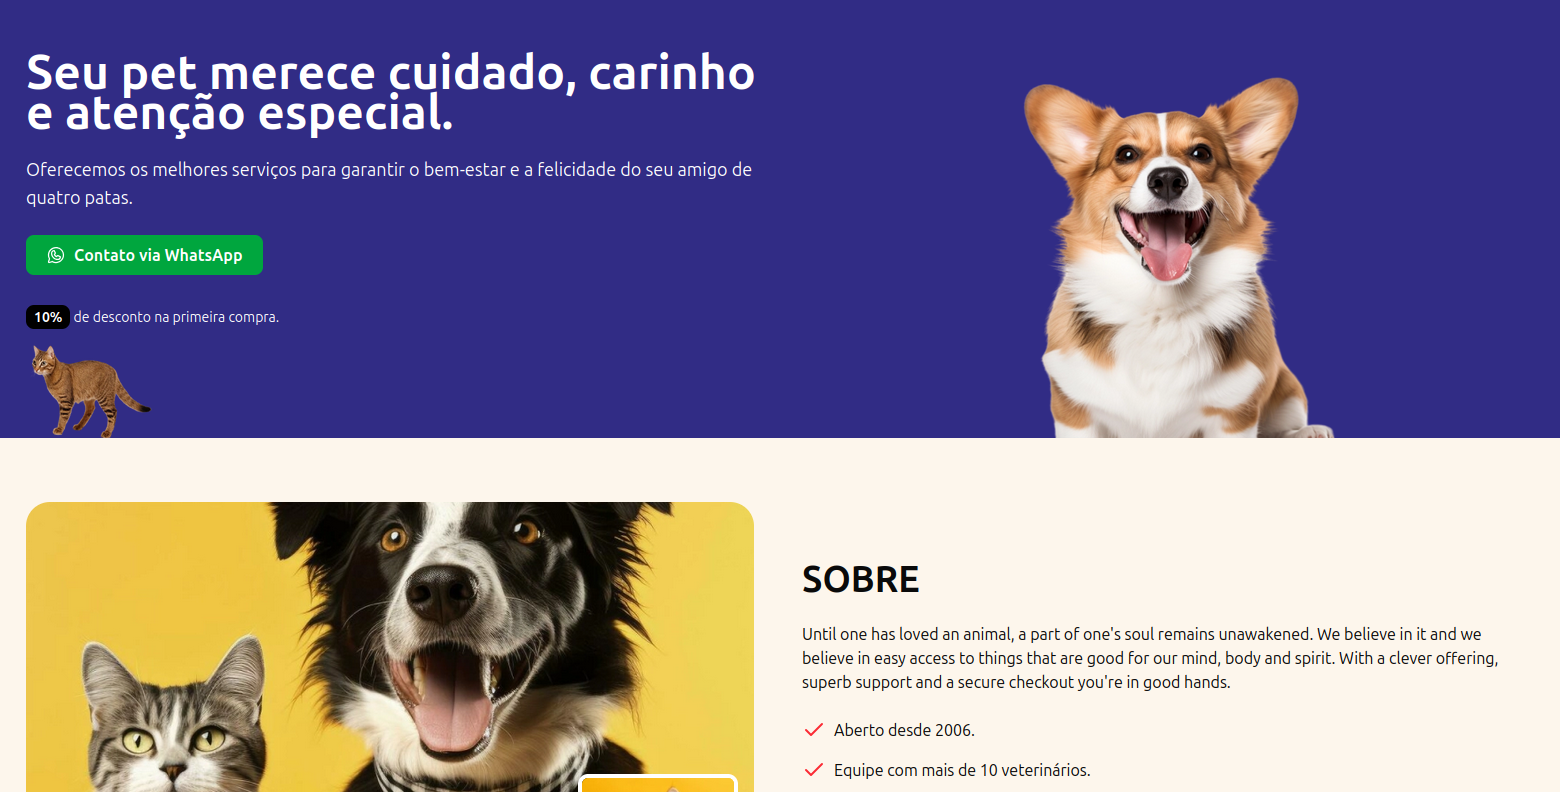
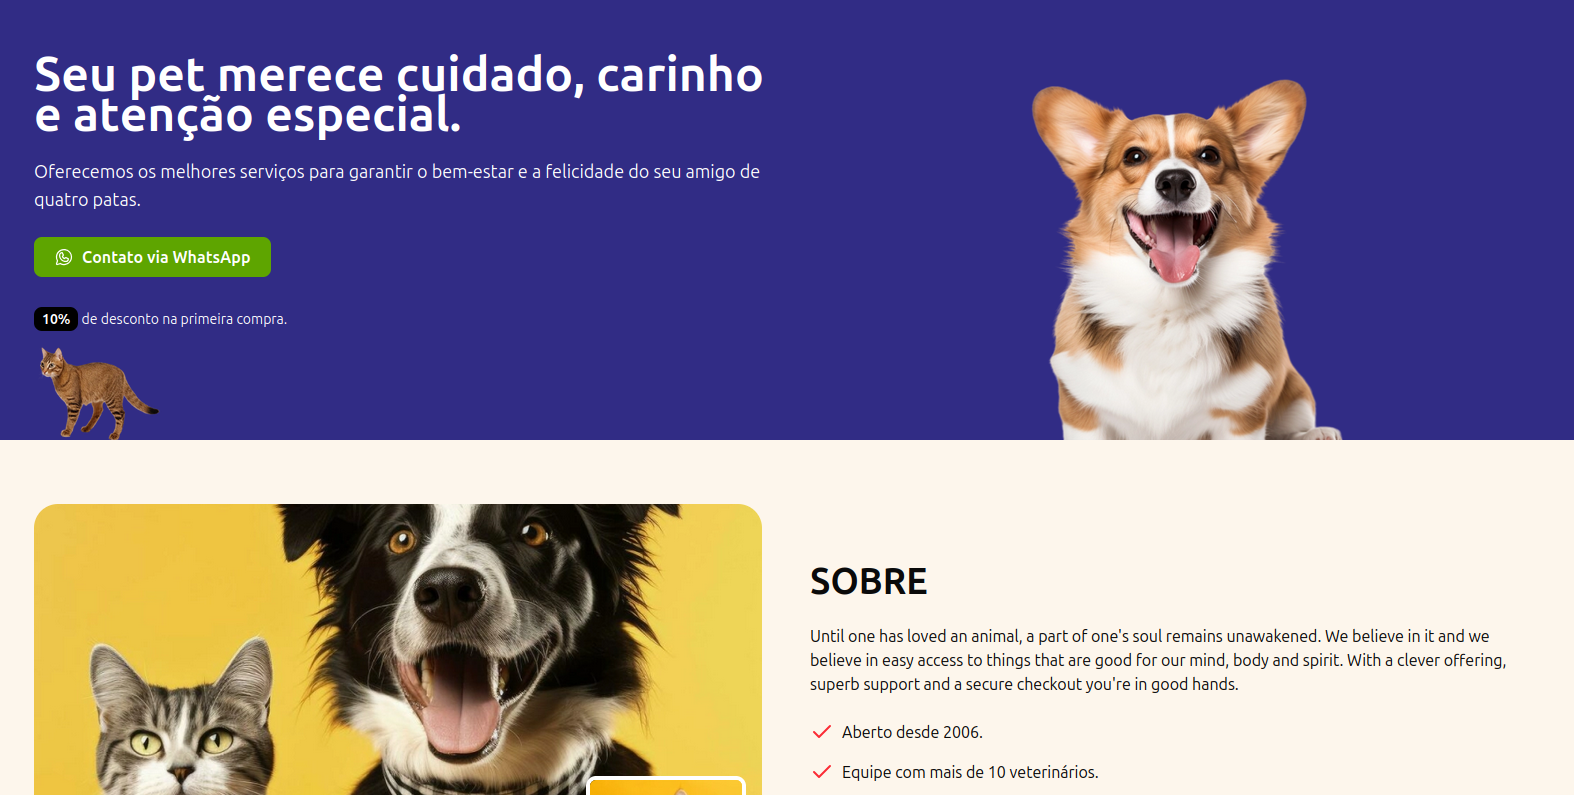
feat: add animations and visual improvements

diff --git a/src/app/_components/about.tsx b/src/app/_components/about.tsx
@@ -10,7 +10,8 @@ import { WhatsappLogoIcon} from '@phosphor-icons/react/dist/ssr'
           <div className="container px-4 mx-auto">
 
             <div className="grid grid-cols-1 lg:grid-cols-2 gap-12 items-center">
-               <div className="relative"> 
+
+               <div className="relative" data-aos="fade-up-right" data-aos-delay="300"> 
                   <div className="relative w-full h-[400px] rounded-3xl 
                   overflow-hidden">
                    <Image
@@ -36,13 +37,13 @@ import { WhatsappLogoIcon} from '@phosphor-icons/react/dist/ssr'
 
                 </div> 
 
-               <div className="space-y-6 mt-10">
+               <div className="space-y-6 mt-10" data-aos="fade-up-left" data-aos-delay="300">
                    <h2 className="text-4xl font-bold">SOBRE</h2>
                    <p>
-                    Until one has loved an animal, a part of one's soul remains unawakened. 
-                    We believe in it and we believe in easy access to things that are good 
-                    for our mind, body and spirit. With a clever offering, superb support and 
-                    a secure checkout you're in good hands.
+                    Até que alguém ame um animal, uma parte da sua alma permanece adormecida.
+                    Acreditamos nisso e acreditamos no fácil acesso a coisas que são boas
+                    para a nossa mente, corpo e espírito. Com uma oferta inteligente, suporte excelente e
+                    um checkout seguro, você está em boas mãos.
                    </p>
 
                    <ul className="space-y-4">

diff --git a/src/app/_components/hero.tsx b/src/app/_components/hero.tsx
@@ -25,16 +25,20 @@ export function Hero() {
            <article className="grid grid-cols-1 lg:grid-cols-2 gap-8">
 
             <div className="space-y-6">
-              <h1 className="text-3xl md:text-4xl lg:text-5xl font-bold 
-               leading-10">
+              <h1 
+              className="text-3xl md:text-4xl lg:text-5xl font-bold leading-10"
+              data-aos="fade-down"
+              >
                   Seu pet merece cuidado, carinho e atenção especial.
               </h1>
-              <p className="lg:text-lg"> 
+              <p className="lg:text-lg" data-aos="fade-right"> 
                 Oferecemos os melhores serviços para garantir o bem-estar e a 
                 felicidade do seu amigo de quatro patas.
               </p>
     
                 <a 
+                data-aos="fade-up"
+                data-aos-delay="500"
                 target='_blank'
                 href={`https://wa.me/48991471311?text= Olá, vi o site e gostaria de mais informações.`}
                 className="bg-lime-600 px-5 py-2 rounded-md font-semibold flex items-center

diff --git a/src/app/layout.tsx b/src/app/layout.tsx
@@ -1,6 +1,7 @@
 import type { Metadata } from "next";
 import { Geist, Geist_Mono } from "next/font/google";
 import "./globals.css";
+import { AosInit } from "./_components/aos-init";
 
 const geistSans = Geist({
   variable: "--font-geist-sans",
@@ -28,6 +29,7 @@ export default function RootLayout({
         className={`${geistSans.variable} ${geistMono.variable} antialiased`}
       >
         {children}
+        <AosInit />
       </body>
     </html>
   );

diff --git a/src/app/_components/aos-init.tsx b/src/app/_components/aos-init.tsx
@@ -1,0 +1,20 @@
+"use client"
+
+import { useEffect} from "react"
+import Aos, {} from 'aos'
+import 'aos/dist/aos.css'
+
+
+export function AosInit() {
+
+    useEffect( () => {
+        Aos.init({
+            duration: 800,
+            once: true
+        })
+    }, [])
+
+    return null;
+}
+
+
